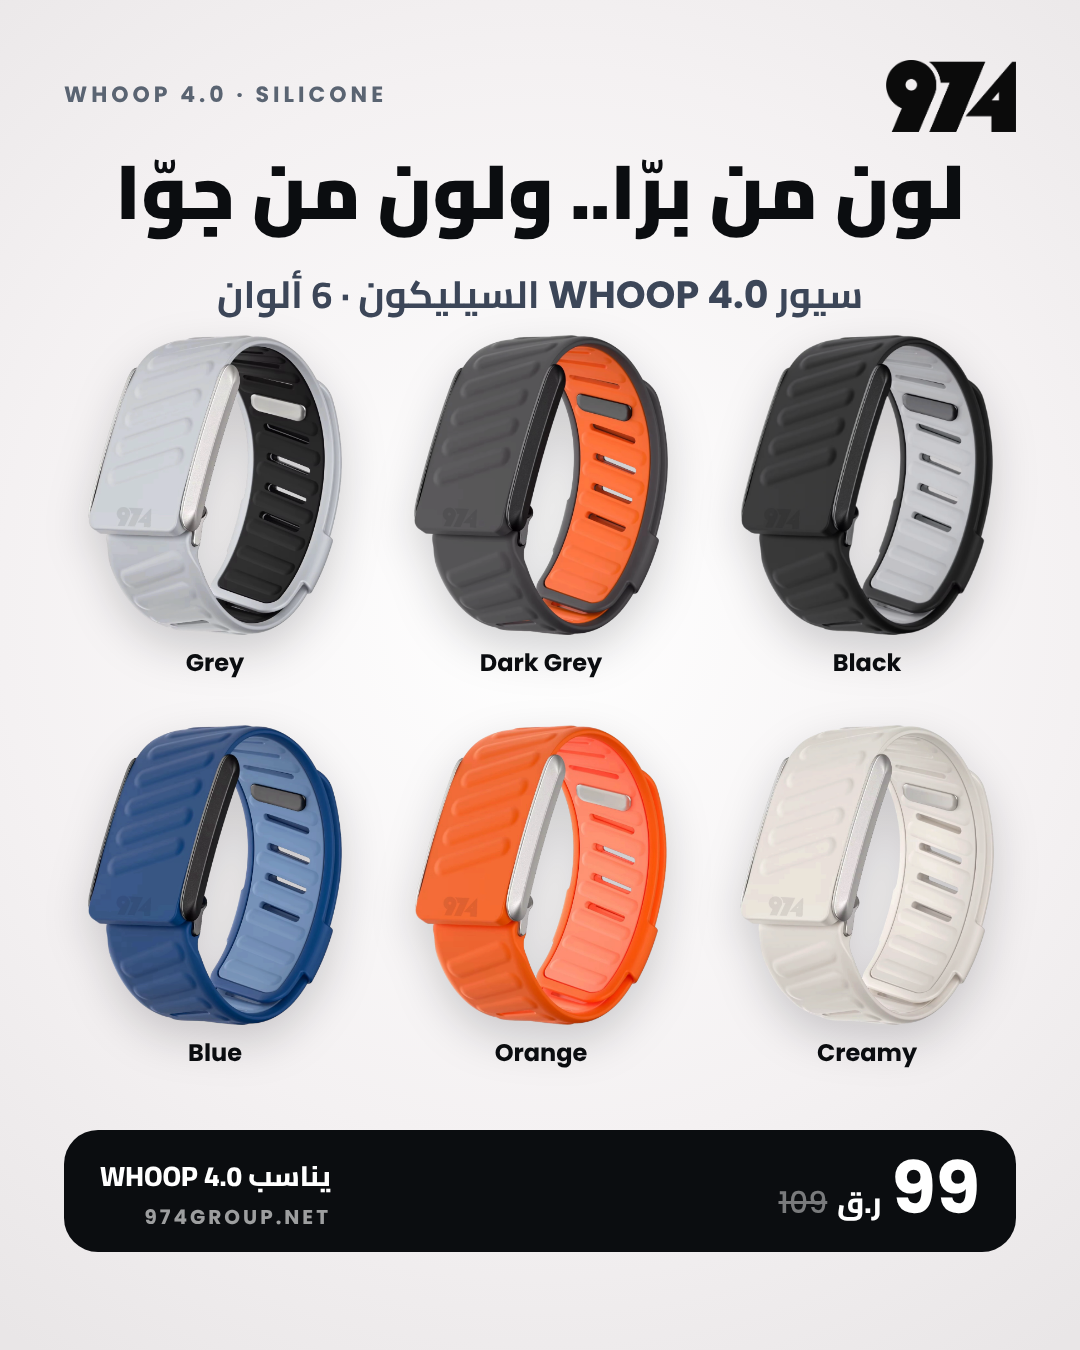
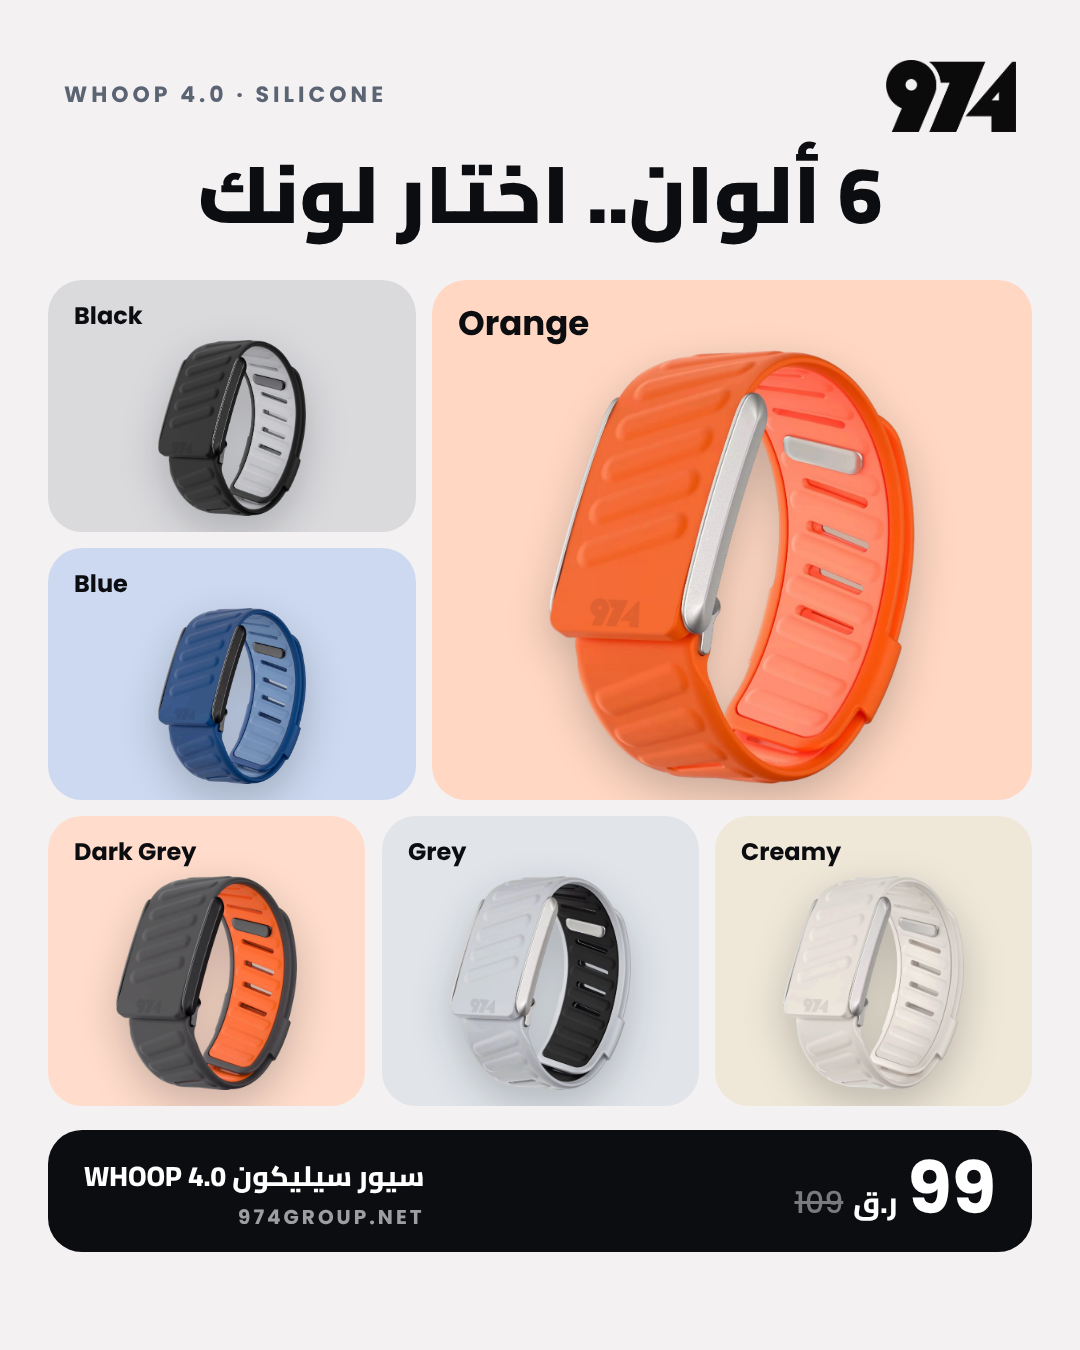
Whoop 4.0 silicone: new bento colour-tile design
Claude-Session: https://claude.ai/code/session_01K6HDWNrArsGSJekW1VcEzV

diff --git a/posts/2026-11/whoop4-silicone-src/d2.html b/posts/2026-11/whoop4-silicone-src/d2.html
@@ -1,0 +1,69 @@
+<!doctype html><html lang="ar" dir="rtl"><meta charset="utf-8"><style>
+@font-face{font-family:'Cairo';font-weight:400 900;src:url(../aw/fonts/cairo-SLXVc1nY6HkvangtZmpQdkhzfH5lkSscQyyS8p4_RHH1.woff2)}
+@font-face{font-family:'Cairo';font-weight:400 900;src:url(../aw/fonts/cairo-SLXVc1nY6HkvangtZmpQdkhzfH5lkSscRiyS8p4_RA.woff2);unicode-range:U+0000-00FF}
+@font-face{font-family:'Poppins';font-weight:500 600;src:url(file:///usr/share/fonts/truetype/google-fonts/Poppins-Medium.ttf)}
+@font-face{font-family:'Poppins';font-weight:700 900;src:url(file:///usr/share/fonts/truetype/google-fonts/Poppins-Bold.ttf)}
+body{margin:0;background:#222;display:flex;gap:40px;align-items:flex-start;font-family:'Cairo'}
+.b{position:relative;overflow:hidden;width:1080px;background:#000;color:#fff}
+.glow{position:absolute;left:50%;transform:translateX(-50%);border-radius:50%;background:radial-gradient(circle,rgba(74,110,60,.55) 0%,rgba(74,110,60,0) 65%)}
+.en{font-family:'Poppins';direction:ltr;display:inline-block}
+.logo{position:absolute;right:64px}
+.kick{position:absolute;left:64px;font-family:'Poppins';font-weight:700;letter-spacing:4px;color:#9AA3AD;direction:ltr}
+h1{position:absolute;left:0;right:0;margin:0;text-align:center;font-weight:900;line-height:1.1}
+.sub{position:absolute;left:0;right:0;text-align:center;font-weight:700;color:#C9D1D9}
+.xx{position:absolute;left:50%;transform:translateX(-50%)}
+.hero img{display:block;-webkit-mask-image:linear-gradient(to bottom,#000 86%,transparent 100%);mask-image:linear-gradient(to bottom,#000 86%,transparent 100%)}
+.sw{position:absolute;left:64px;right:64px;display:flex;justify-content:space-between}
+.sw div{text-align:center}
+.sw img{display:block;object-fit:cover;background:#1c1c1c;margin:0 auto;border-radius:50%;border:4px solid #fff;box-shadow:0 8px 20px rgba(0,0,0,.6)}
+.sw span{display:block;font-family:Poppins;font-weight:600;color:#C9D1D9;direction:ltr;white-space:nowrap}
+.bar{position:absolute;left:48px;right:48px;background:#fff;color:#0B0D10;border-radius:34px;display:flex;align-items:center;justify-content:space-between}
+.pr{display:flex;align-items:baseline;gap:10px}.pr b{font-family:Poppins;font-weight:800;line-height:1}
+.cta{display:flex;flex-direction:column;align-items:flex-start}.cta span:first-child{font-weight:800;white-space:nowrap}.cta span:last-child{font-family:Poppins;font-weight:700;letter-spacing:3px;opacity:.6;direction:ltr}
+.w{background:radial-gradient(900px 900px at 50% 45%,#FFFFFF 0%,#F4F1F2 60%,#E9E6E7 100%);color:#0B0D10}
+.w .kick{color:#5A6472}.w .sub{color:#3C4658}
+.w .sw img{background:#E2E2E2;border-color:#fff;box-shadow:0 8px 18px rgba(0,0,0,.18)}.w .sw span{color:#3C4658}
+.w .bar{background:#0B0D10;color:#fff}
+.pi{position:absolute;display:block}
+.w .pi{filter:drop-shadow(0 24px 30px rgba(0,0,0,.22))}
+.tag{position:absolute;font-weight:700;color:#9AA3AD;text-align:center}.w .tag{color:#5A6472}
+.card{position:absolute;background:#fff;border-radius:28px;box-shadow:0 12px 28px rgba(11,13,16,.10);overflow:hidden}
+.card img{position:absolute;object-fit:contain;mix-blend-mode:multiply}
+.card .nm{position:absolute;font-family:Poppins;font-weight:700;color:#0B0D10;direction:ltr;white-space:nowrap}
+.card .st{position:absolute;font-weight:700;color:#5A6472}
+.pill{position:absolute;left:50%;transform:translateX(-50%);background:#fff;border-radius:40px;box-shadow:0 10px 24px rgba(11,13,16,.10);font-weight:800;color:#0B0D10;white-space:nowrap}
+.cell{position:absolute;text-align:center}
+.cell img{display:block;margin:0 auto;object-fit:contain;filter:drop-shadow(0 18px 22px rgba(11,13,16,.18))}
+.cell span{display:block;font-family:Poppins;font-weight:700;color:#0B0D10;direction:ltr}
+.pr s{font-family:Poppins;font-weight:600;opacity:.45;text-decoration-thickness:3px}
+.bg2{background:#F4F1F2}
+.t{position:absolute;border-radius:34px;overflow:hidden}
+.t img{position:absolute;object-fit:contain;filter:drop-shadow(0 16px 20px rgba(11,13,16,.22))}
+.t .n{position:absolute;font-family:Poppins;font-weight:700;color:#0B0D10;direction:ltr;white-space:nowrap}
+.t .q{position:absolute;font-family:Poppins;font-weight:600;color:#0B0D10;opacity:.55;direction:ltr;white-space:nowrap}
+</style>
+<div class="b w" id="s" style="height:1920px;background:#F4F1F2">
+<img class="logo" src="logo-black.png" style="top:80px;width:150px">
+<div class="kick" style="top:100px;font-size:24px">WHOOP 4.0 · SILICONE</div>
+<h1 style="top:220px;font-size:96px">6 ألوان.. اختار لونك</h1>
+<div class="t" style="left:48px;top:400px;width:984px;height:580px;background:#FFD7C2"><img src="orange.png" style="left:15px;top:76px;width:954px;height:488px"><div class="n" style="left:26px;top:18px;font-size:40px">Orange</div></div>
+<div class="t" style="left:548px;top:996px;width:484px;height:330px;background:#DADADD"><img src="black.png" style="left:15px;top:64px;width:454px;height:250px"><div class="n" style="left:26px;top:18px;font-size:28px">Black</div></div>
+<div class="t" style="left:48px;top:996px;width:484px;height:330px;background:#CCD9F0"><img src="blue.png" style="left:15px;top:64px;width:454px;height:250px"><div class="n" style="left:26px;top:18px;font-size:28px">Blue</div></div>
+<div class="t" style="left:715px;top:1342px;width:317px;height:300px;background:#EFE7D8"><img src="creamy.png" style="left:15px;top:60px;width:287px;height:224px"><div class="n" style="left:26px;top:18px;font-size:24px">Creamy</div></div>
+<div class="t" style="left:382px;top:1342px;width:317px;height:300px;background:#E1E5EA"><img src="grey.png" style="left:15px;top:60px;width:287px;height:224px"><div class="n" style="left:26px;top:18px;font-size:24px">Grey</div></div>
+<div class="t" style="left:48px;top:1342px;width:317px;height:300px;background:#FFDCCB"><img src="darkgrey.png" style="left:15px;top:60px;width:287px;height:224px"><div class="n" style="left:26px;top:18px;font-size:24px">Dark Grey</div></div>
+<div class="bar" style="top:1680px;padding:24px 40px">
+ <div class="pr"><b style="font-size:84px">99</b><span style="font-size:34px;font-weight:800">ر.ق</span><s style="font-size:35px">109</s></div>
+ <div class="cta"><span style="font-size:30px">سيور سيليكون WHOOP 4.0</span><span style="font-size:22px">974GROUP.NET</span></div></div></div><div class="b w bg2" id="p" style="height:1350px;background:#F4F1F2">
+<img class="logo" src="logo-black.png" style="top:60px;width:130px">
+<div class="kick" style="top:78px;font-size:22px">WHOOP 4.0 · SILICONE</div>
+<h1 style="top:150px;font-size:80px">6 ألوان.. اختار لونك</h1>
+<div class="t" style="left:432px;top:280px;width:600px;height:520px;background:#FFD7C2"><img src="orange.png" style="left:15px;top:70px;width:570px;height:434px"><div class="n" style="left:26px;top:18px;font-size:34px">Orange</div></div>
+<div class="t" style="left:48px;top:280px;width:368px;height:252px;background:#DADADD"><img src="black.png" style="left:15px;top:60px;width:338px;height:176px"><div class="n" style="left:26px;top:18px;font-size:24px">Black</div></div>
+<div class="t" style="left:48px;top:548px;width:368px;height:252px;background:#CCD9F0"><img src="blue.png" style="left:15px;top:60px;width:338px;height:176px"><div class="n" style="left:26px;top:18px;font-size:24px">Blue</div></div>
+<div class="t" style="left:715px;top:816px;width:317px;height:290px;background:#EFE7D8"><img src="creamy.png" style="left:15px;top:60px;width:287px;height:214px"><div class="n" style="left:26px;top:18px;font-size:24px">Creamy</div></div>
+<div class="t" style="left:382px;top:816px;width:317px;height:290px;background:#E1E5EA"><img src="grey.png" style="left:15px;top:60px;width:287px;height:214px"><div class="n" style="left:26px;top:18px;font-size:24px">Grey</div></div>
+<div class="t" style="left:48px;top:816px;width:317px;height:290px;background:#FFDCCB"><img src="darkgrey.png" style="left:15px;top:60px;width:287px;height:214px"><div class="n" style="left:26px;top:18px;font-size:24px">Dark Grey</div></div>
+<div class="bar" style="top:1130px;padding:20px 36px">
+ <div class="pr"><b style="font-size:72px">99</b><span style="font-size:29px;font-weight:800">ر.ق</span><s style="font-size:30px">109</s></div>
+ <div class="cta"><span style="font-size:28px">سيور سيليكون WHOOP 4.0</span><span style="font-size:20px">974GROUP.NET</span></div></div></div>
